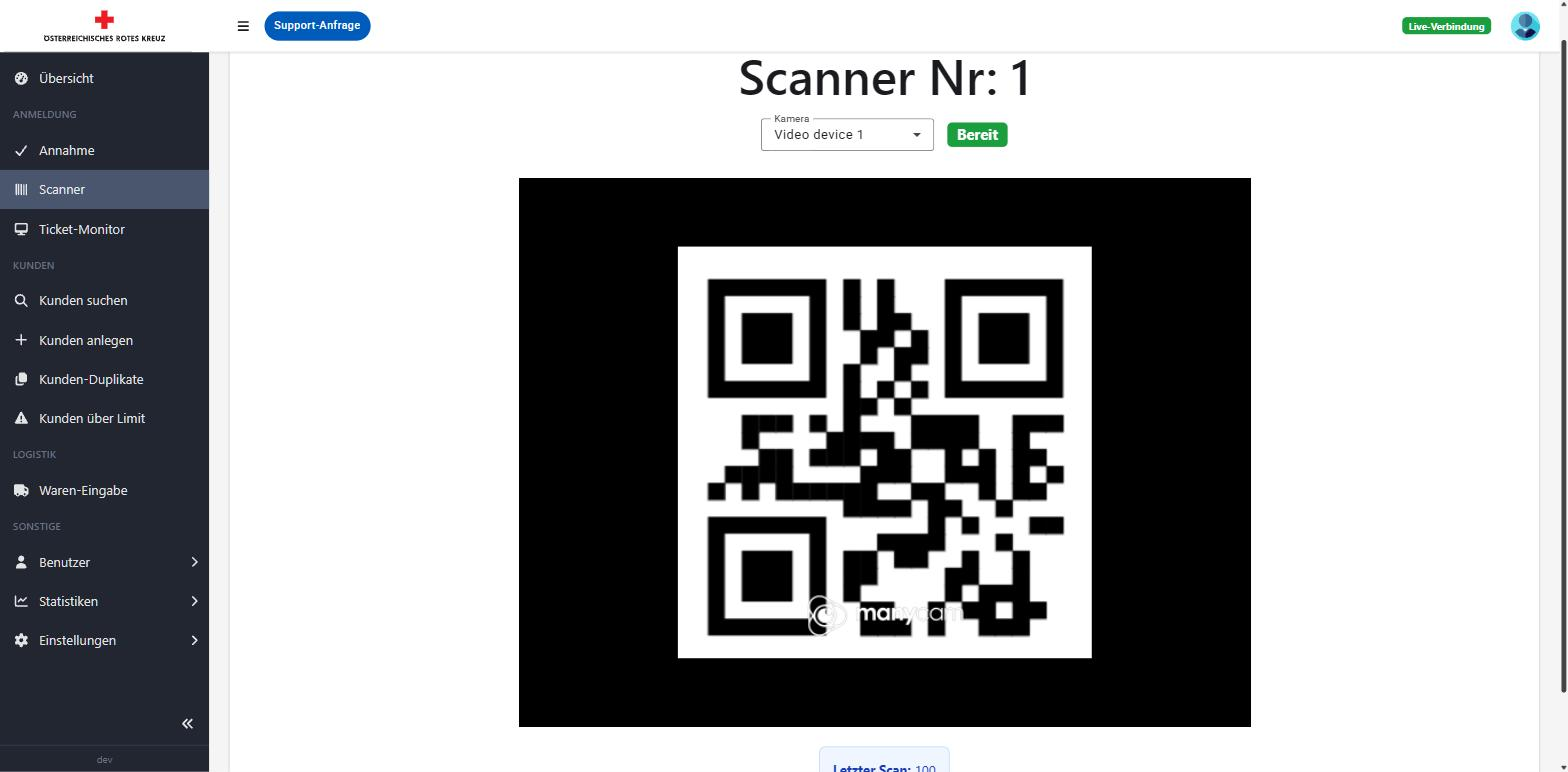
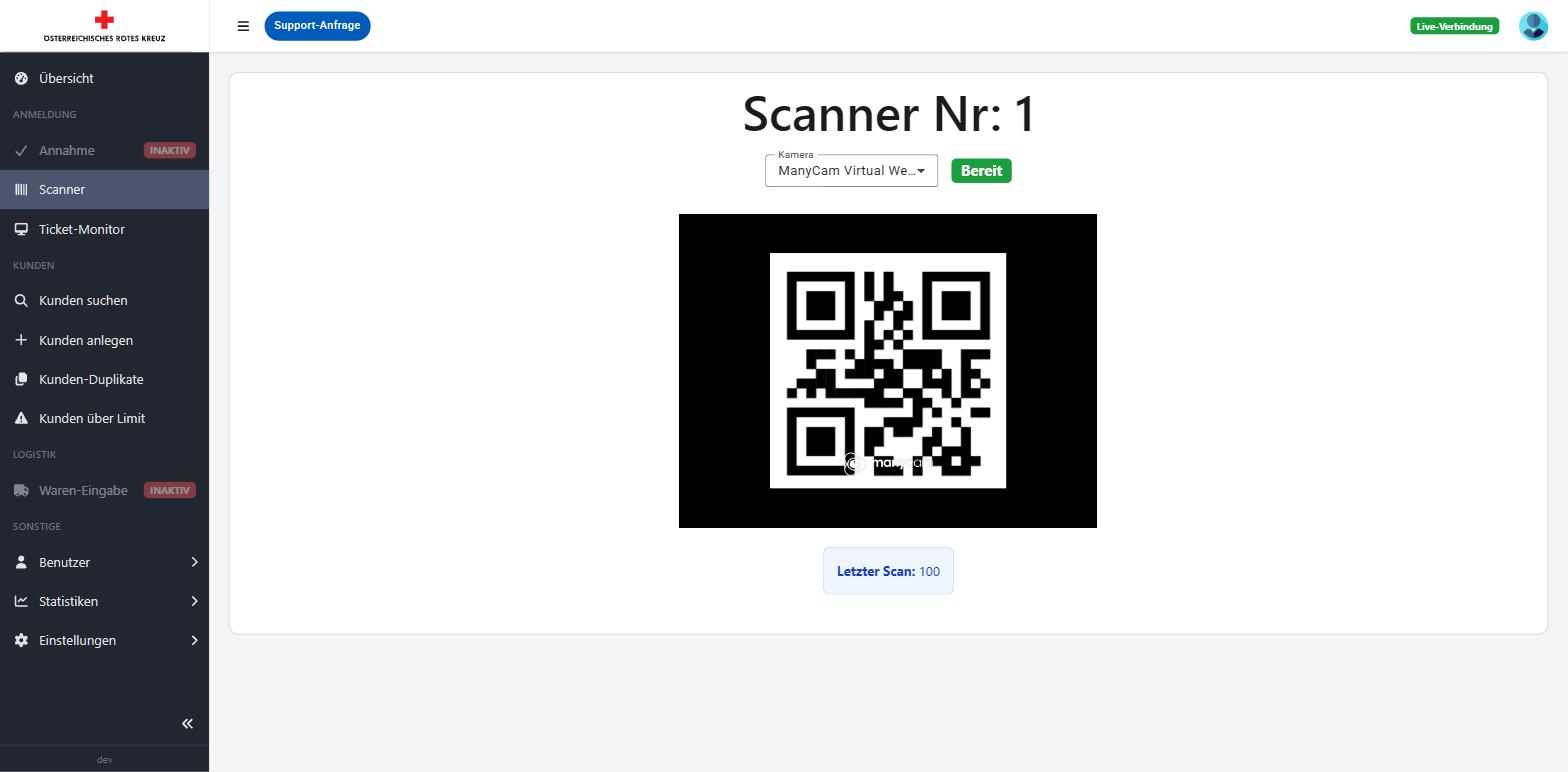
fix: shrink scanner video preview so the page fits without scrolling
The video element's max-w-4xl cap made the whole Scanner page (title,
camera selector, video, last-scan result) taller than the viewport on
a standard screen, requiring a scrollbar to see the last-scan result.
Reduced to max-w-lg - verified in the browser that the full page now
fits with no scroll needed.

Also replace the corresponding userguide screenshot to reflect the
smaller preview.

Claude-Session: https://claude.ai/code/session_01EniF2S737CCg248n921F7n

diff --git a/frontend/src/main/webapp/src/app/modules/checkin/views/scanner/scanner.component.html b/frontend/src/main/webapp/src/app/modules/checkin/views/scanner/scanner.component.html
@@ -27,7 +27,7 @@
       </h4>
     </div>
     <mat-divider class="!my-4"></mat-divider>
-    <video id="qrCodeReaderVideo" class="w-full max-w-4xl" muted></video>
+    <video id="qrCodeReaderVideo" class="w-full max-w-lg" muted></video>
     @if (readyState()) {
       <div class="mt-6">
         <div class="tafel-banner-info" testid="message">
